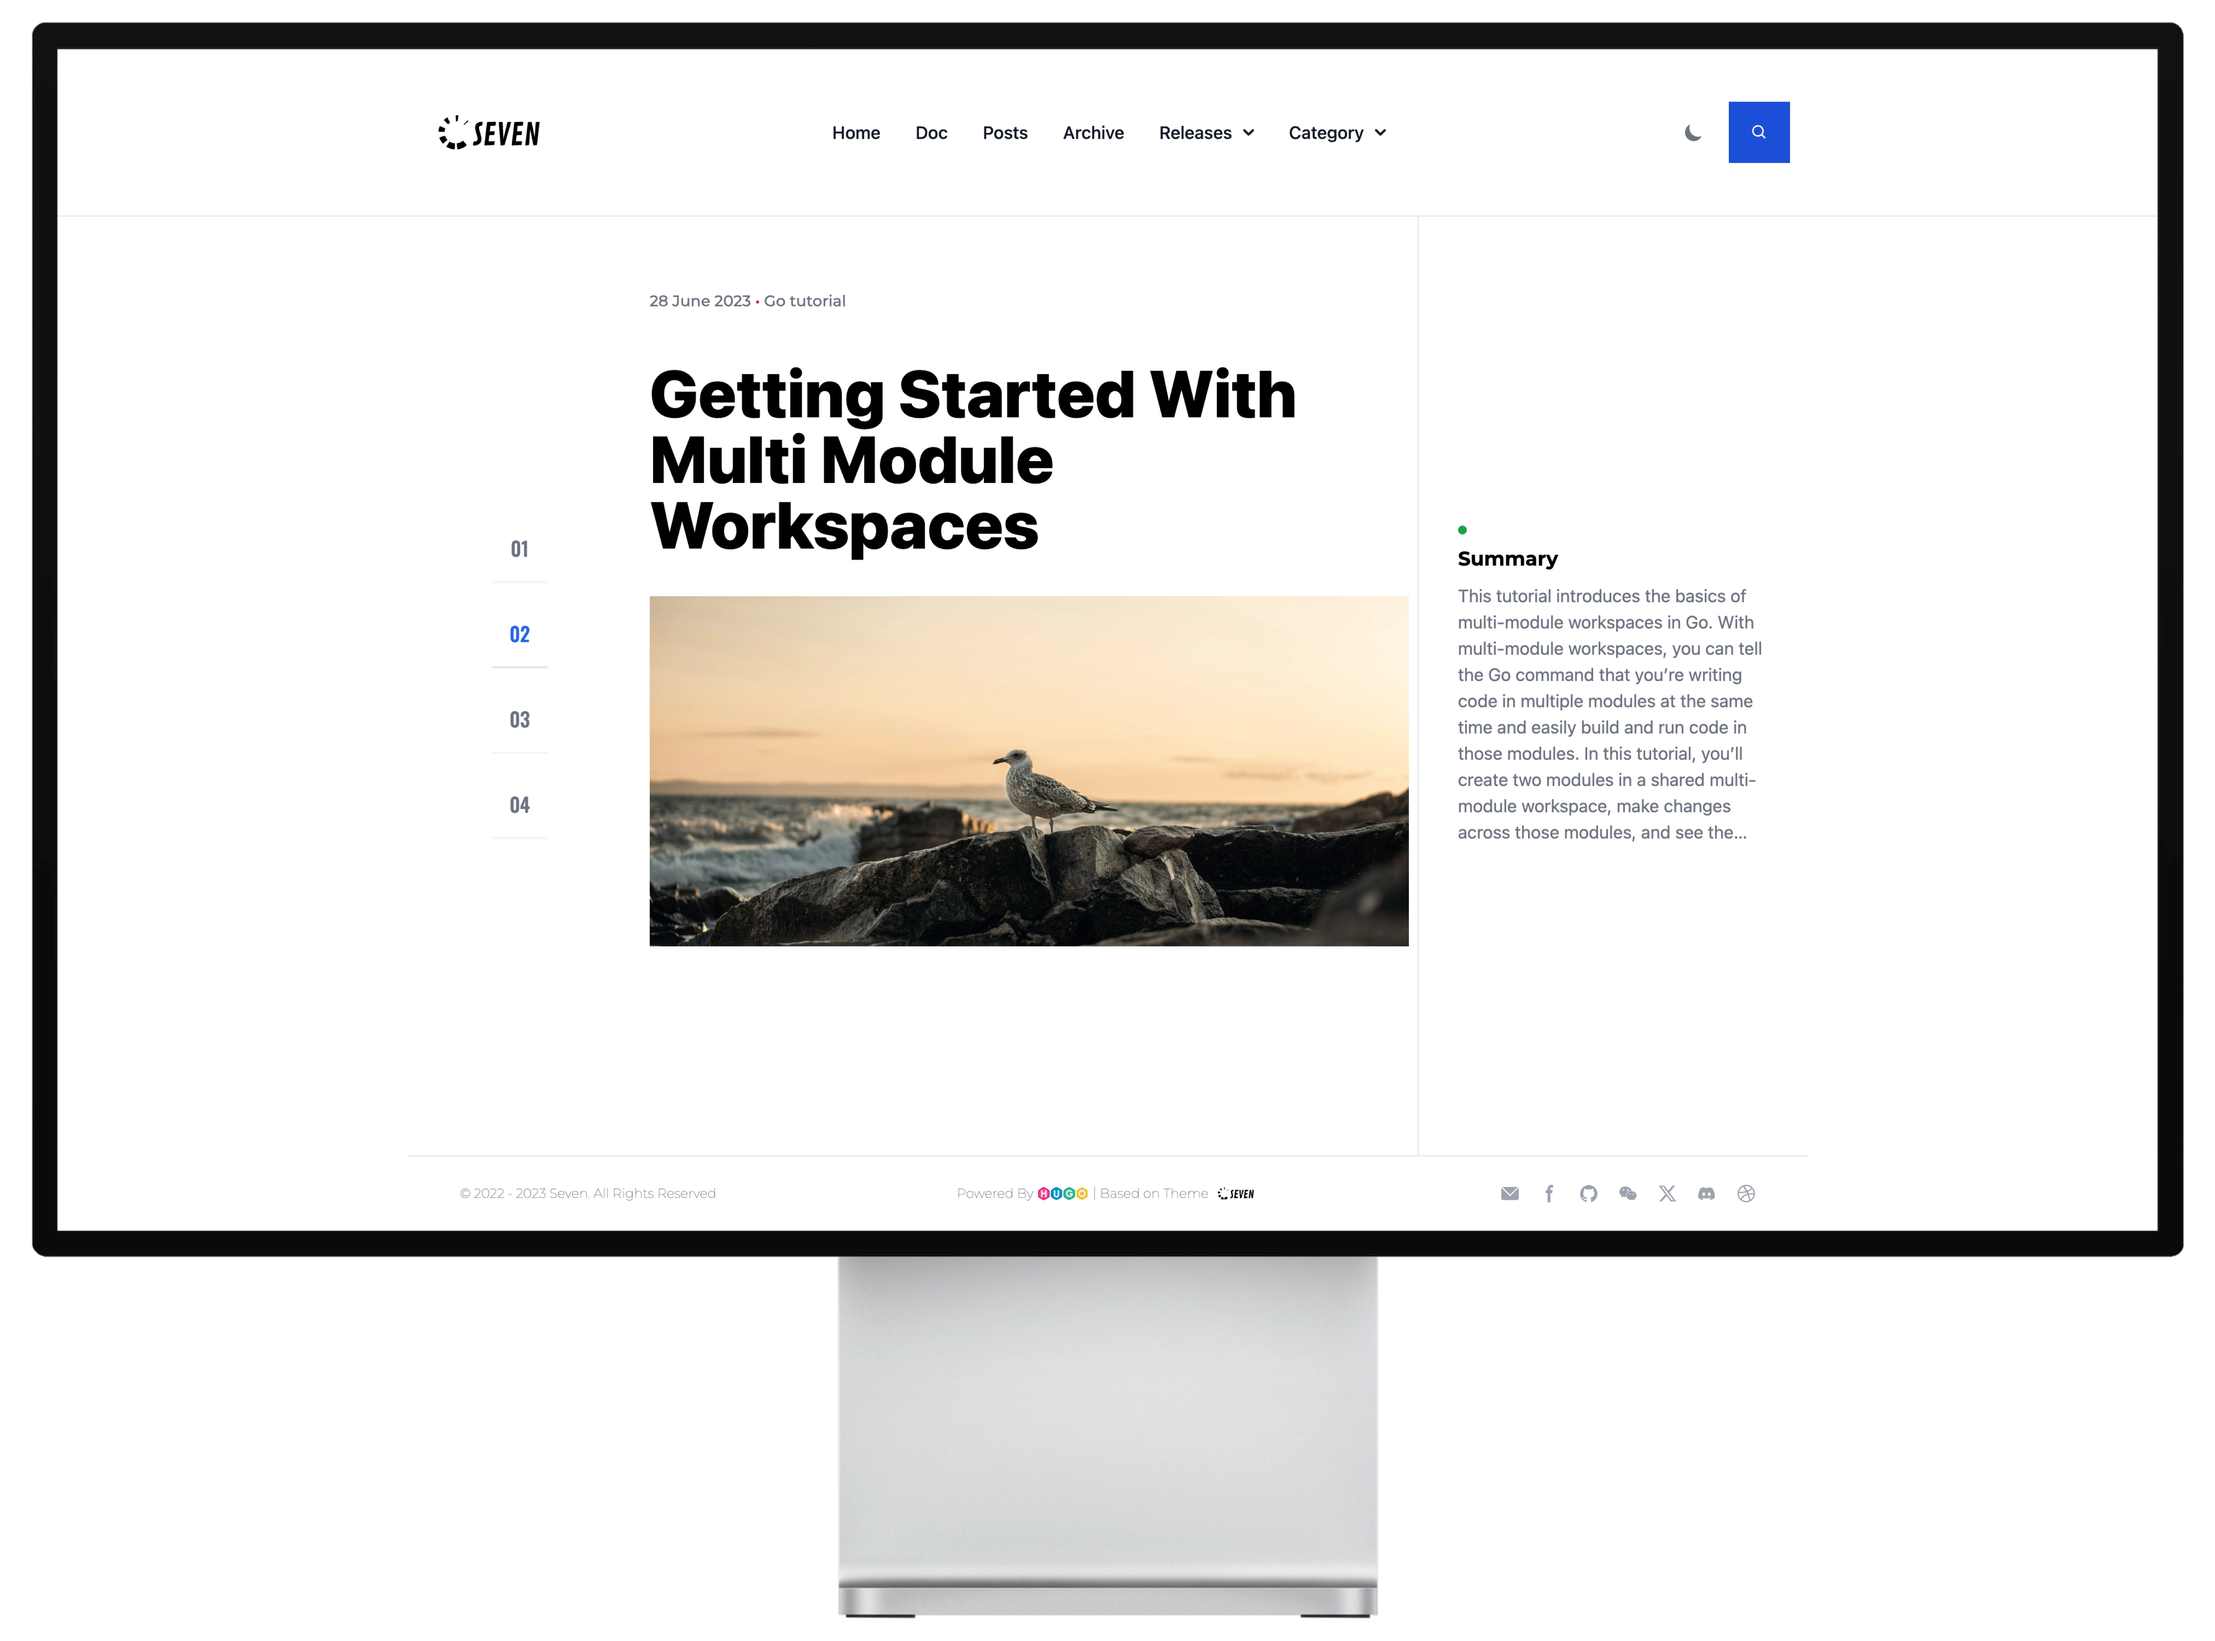
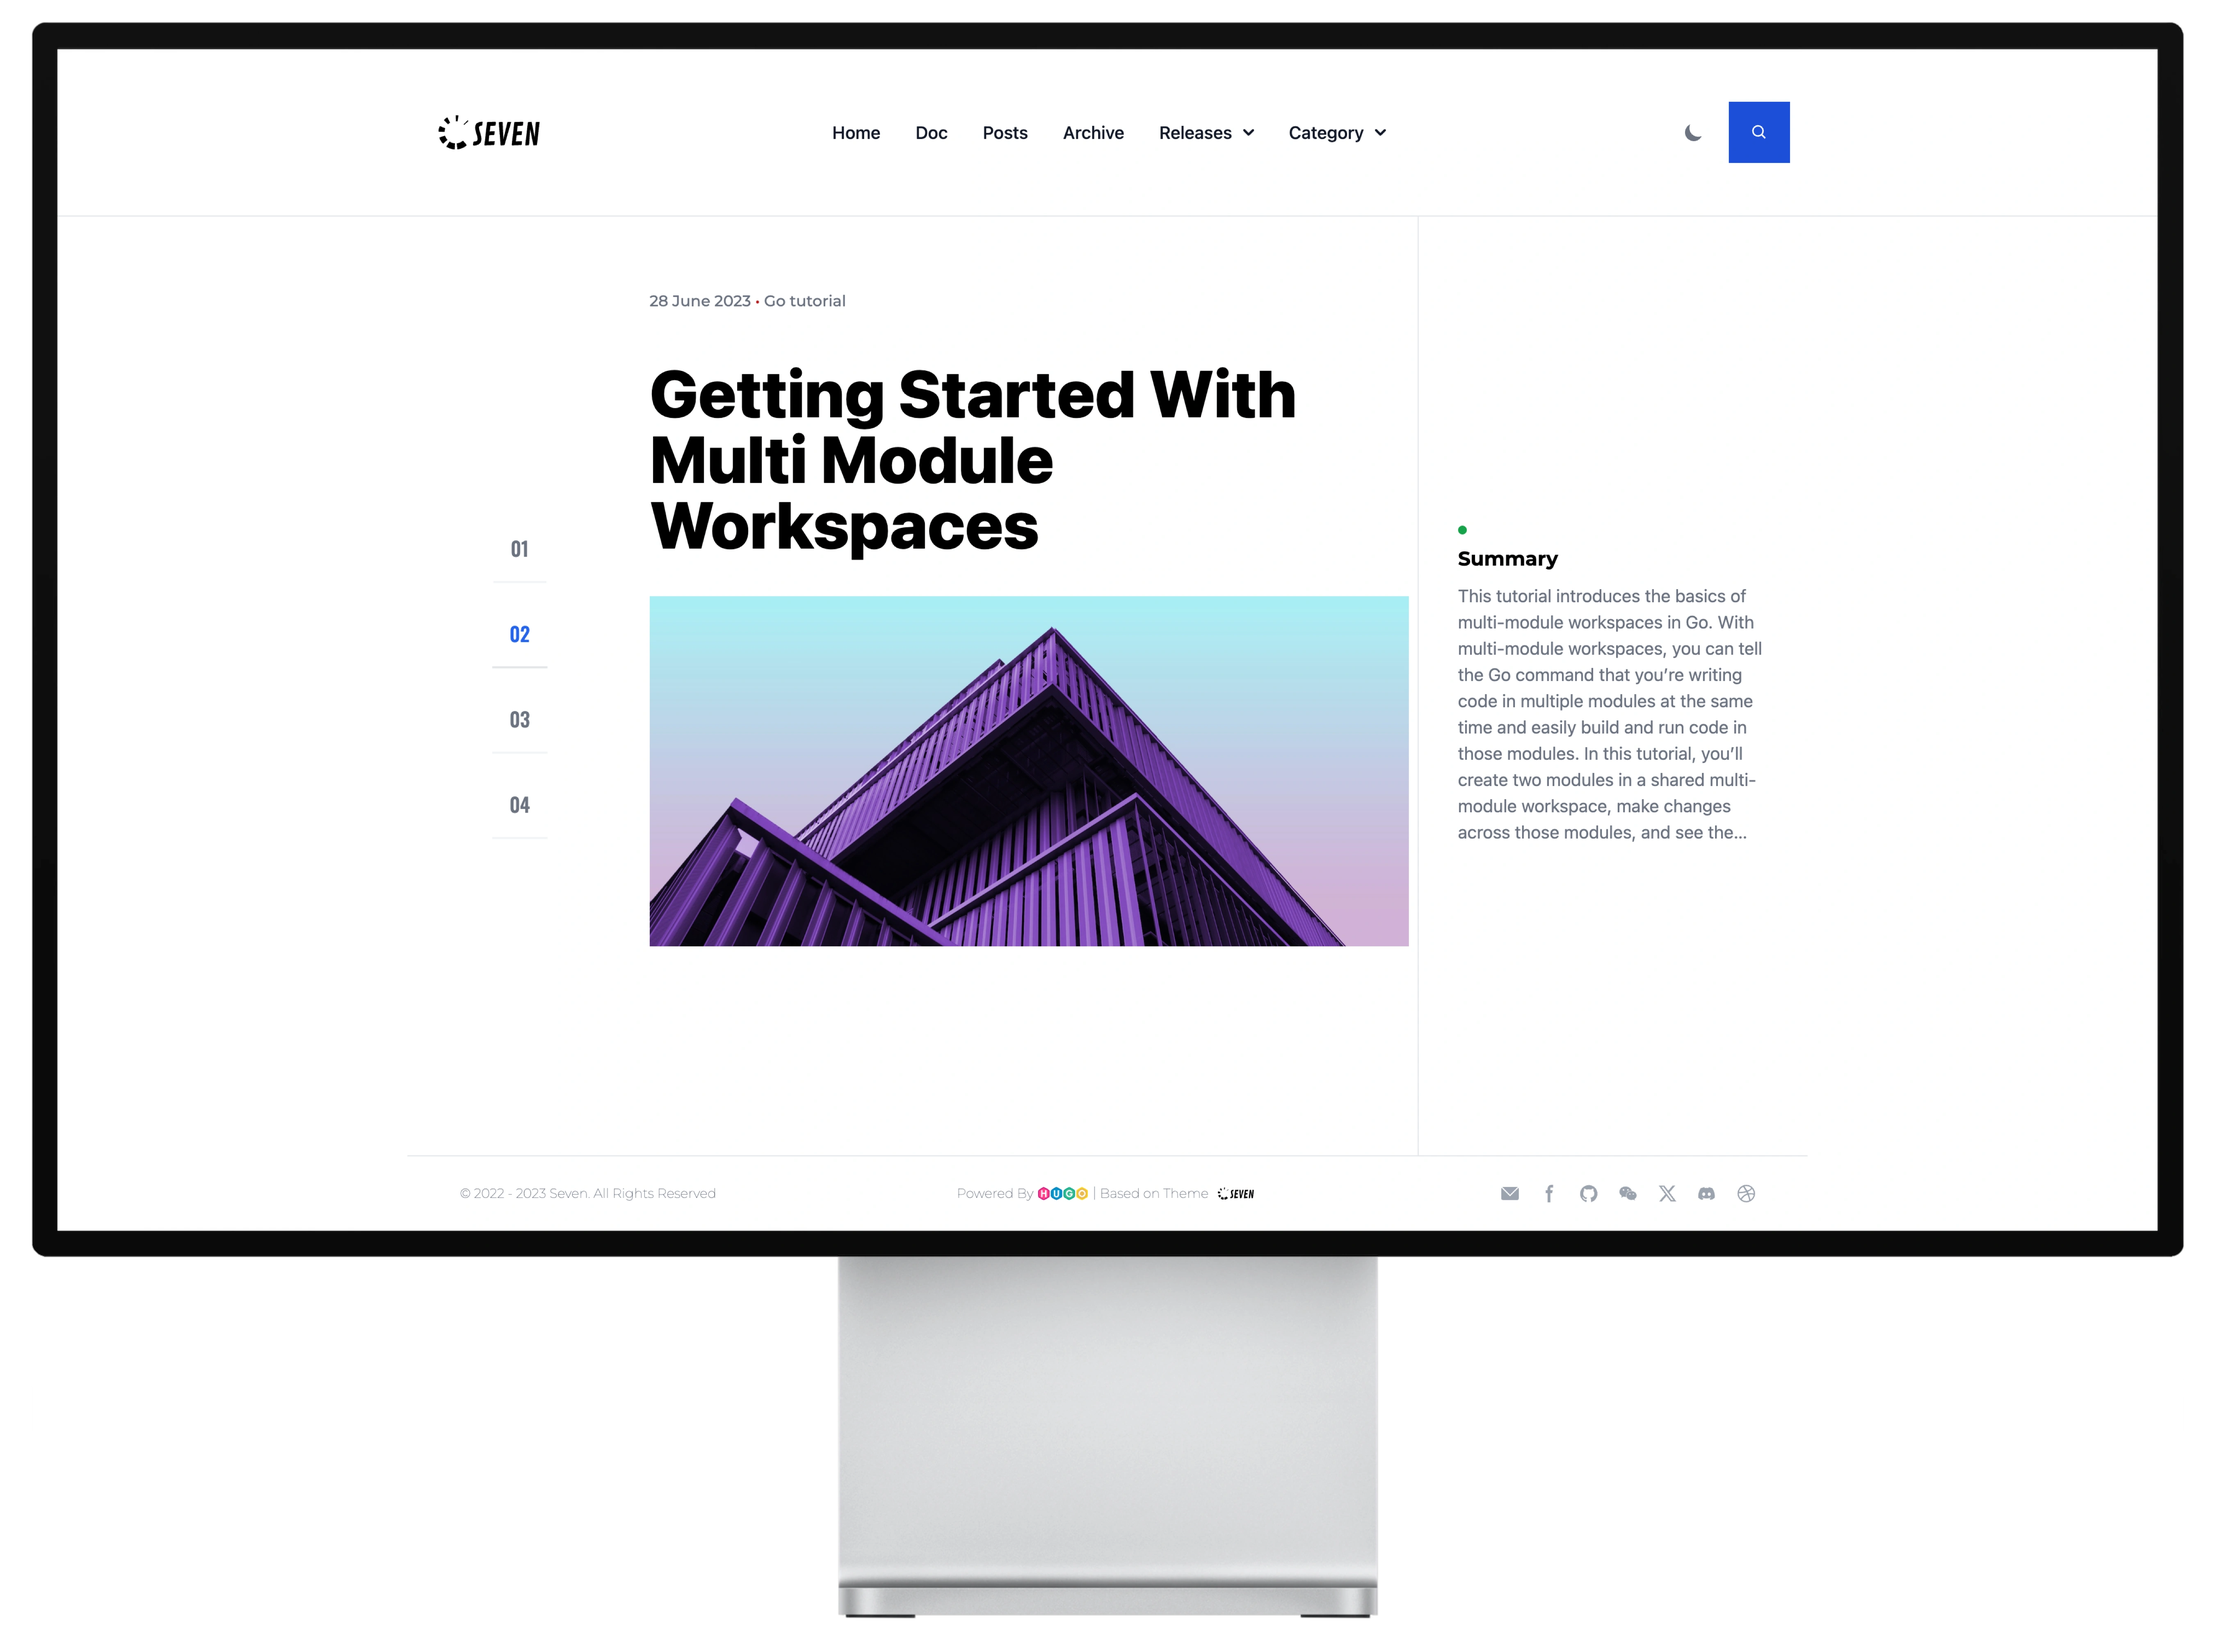
update screenshot

Changed region(s): [[0.28, 0.3438, 0.6533, 0.5938]]

diff --git a/content/posts/2023-06-28-getting-started-with-multi-module-workspaces.md b/content/posts/2023-06-28-getting-started-with-multi-module-workspaces.md
@@ -4,7 +4,7 @@ title: "Getting Started With Multi Module Workspaces"
 date: 2023-06-28T22:02:42+08:00
 draft: false
 author: ""
-image: "/images/posts/2.jpg"
+image: "/images/posts/19.jpg"
 categories: ["Go tutorial"]
 tags: ["go", "go.work", "multi module"]
 URL: ""
